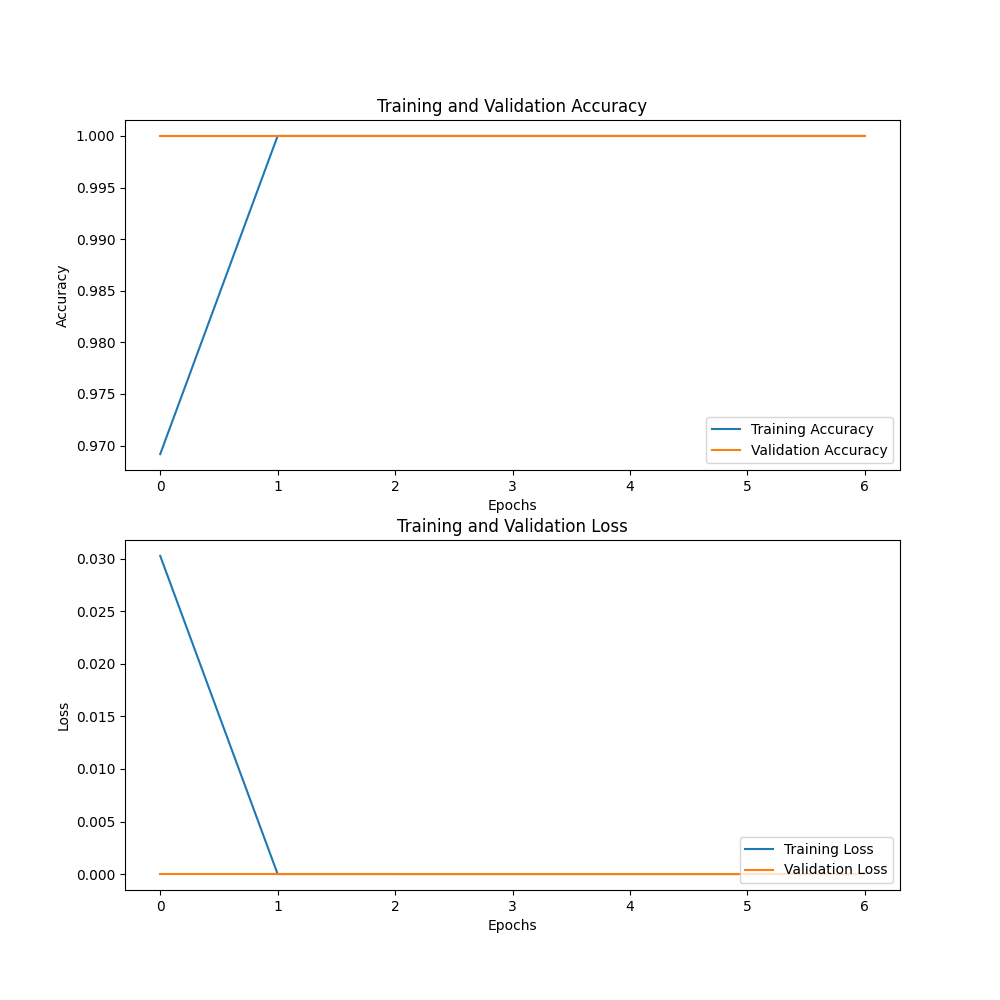
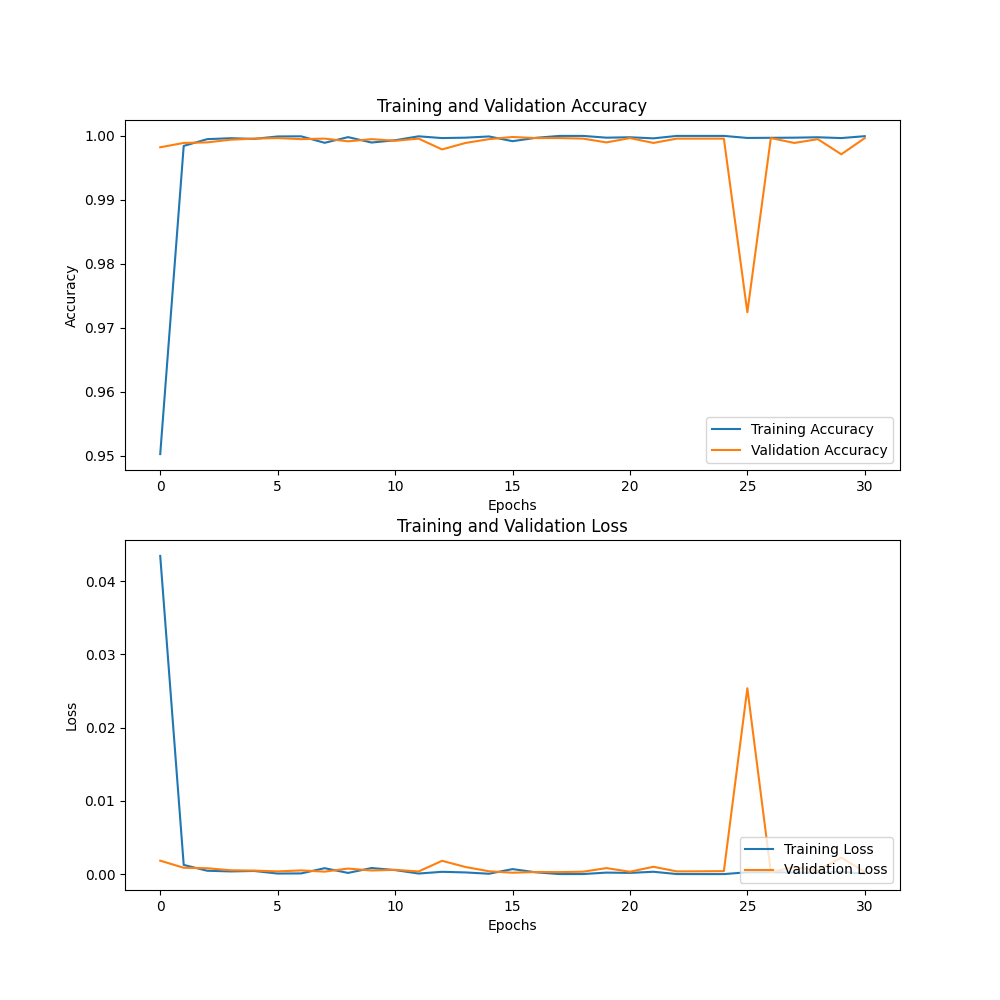
docs: metrics with colored and wider dataset

diff --git a/cnn/trainer.py b/cnn/trainer.py
@@ -79,9 +79,9 @@ class Trainer:
     def train(self, epochs: int, train_ds, test_ds, checkpoint_path: str, metrics_path: str, csv_path: str):
         print(f'Number of epochs: {epochs}')
 
-        # patience = 15
-        # wait = 0
-        # best = sys.maxsize
+        patience = 15
+        wait = 0
+        best = sys.maxsize
 
         for epoch in range(epochs):
             print(f'\nEpoch {epoch+1}')
@@ -109,11 +109,11 @@ class Trainer:
             self.plot(metrics_path)
             self.save_csv(csv_path)
 
-            # test_loss = self.test_loss.result()
+            test_loss = self.test_loss.result()
 
-            # wait += 1
-            # if test_loss < best:
-            #     best = test_loss
-            #     wait = 0
-            # if wait >= patience:
-            #     break
+            wait += 1
+            if test_loss < best:
+                best = test_loss
+                wait = 0
+            if wait >= patience:
+                break

diff --git a/cnn/train.py b/cnn/train.py
@@ -24,7 +24,7 @@ main_directory/
         img2
         ...
 '''
-DATASET_PATH = r'C:\Users\mcsgo\OneDrive\Documentos\TCC\DatasetColored'
+DATASET_PATH = r'C:\Users\mcsgo\OneDrive\Documentos\TCC\Dataset - Color and Wider'
 
 model = Classifier()
 if os.path.exists(CHECKPOINT_PATH):
